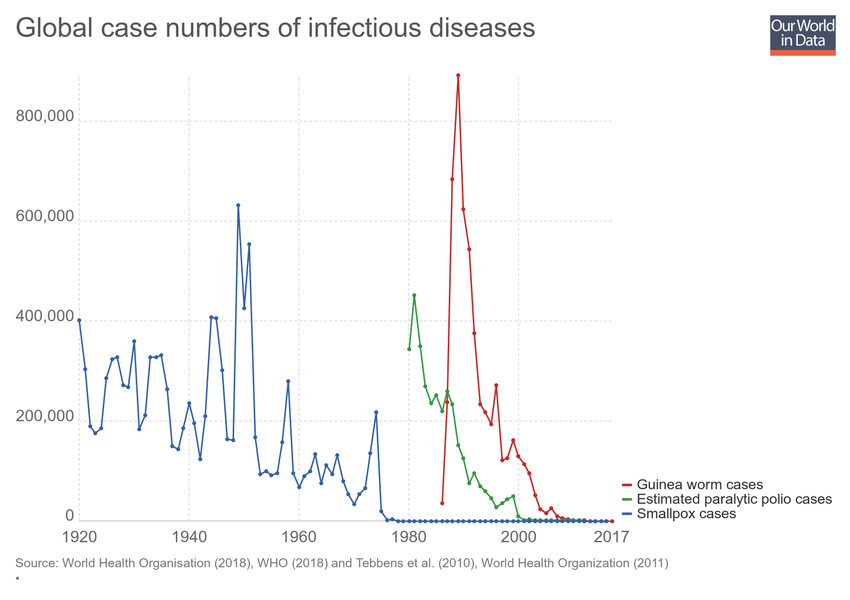
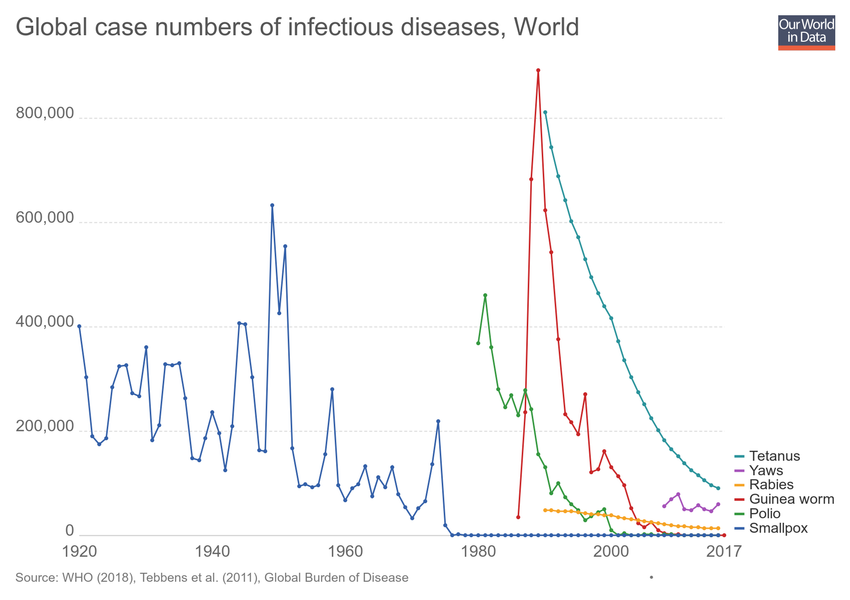
Updating chart global-case-numbers-of-infectious-diseases

diff --git a/grapher/global-case-numbers-of-infectious-diseases.html b/grapher/global-case-numbers-of-infectious-diseases.html
@@ -1,4 +1,4 @@
-<!doctype html><html><head><meta name="viewport" content="width=device-width, initial-scale=1" /><title>Global case numbers of infectious diseases - Our World in Data</title><meta name="description" content="An interactive visualization from Our World in Data." /><link rel="canonical" href="https://ourworldindata.org/grapher/global-case-numbers-of-infectious-diseases" /><meta property="fb:app_id" content="1149943818390250" /><meta property="og:url" content="https://ourworldindata.org/grapher/global-case-numbers-of-infectious-diseases" /><meta property="og:title" content="Global case numbers of infectious diseases" /><meta property="og:description" content="An interactive visualization from Our World in Data." /><meta property="og:image" content="https://ourworldindata.org/grapher/exports/global-case-numbers-of-infectious-diseases.png?v=6" /><meta property="og:image:width" content="850" /><meta property="og:image:height" content="600" /><meta property="og:site_name" content="Our World in Data" /><meta name="twitter:card" content="summary_large_image" /><meta name="twitter:site" content="@OurWorldInData" /><meta name="twitter:creator" content="@OurWorldInData" /><meta name="twitter:title" content="Global case numbers of infectious diseases" /><meta name="twitter:description" content="An interactive visualization from Our World in Data." /><meta name="twitter:image" content="https://ourworldindata.org/grapher/exports/global-case-numbers-of-infectious-diseases.png?v=6" /><style>
+<!doctype html><html><head><meta name="viewport" content="width=device-width, initial-scale=1" /><title>Global case numbers of infectious diseases - Our World in Data</title><meta name="description" content="An interactive visualization from Our World in Data." /><link rel="canonical" href="https://ourworldindata.org/grapher/global-case-numbers-of-infectious-diseases" /><meta property="fb:app_id" content="1149943818390250" /><meta property="og:url" content="https://ourworldindata.org/grapher/global-case-numbers-of-infectious-diseases" /><meta property="og:title" content="Global case numbers of infectious diseases" /><meta property="og:description" content="An interactive visualization from Our World in Data." /><meta property="og:image" content="https://ourworldindata.org/grapher/exports/global-case-numbers-of-infectious-diseases.png?v=7" /><meta property="og:image:width" content="850" /><meta property="og:image:height" content="600" /><meta property="og:site_name" content="Our World in Data" /><meta name="twitter:card" content="summary_large_image" /><meta name="twitter:site" content="@OurWorldInData" /><meta name="twitter:creator" content="@OurWorldInData" /><meta name="twitter:title" content="Global case numbers of infectious diseases" /><meta name="twitter:description" content="An interactive visualization from Our World in Data." /><meta name="twitter:image" content="https://ourworldindata.org/grapher/exports/global-case-numbers-of-infectious-diseases.png?v=7" /><style>
         html, body {
             height: 100%;
             margin: 0;
@@ -20,8 +20,8 @@
         }
     </style><noscript><style>
                     figure { display: none !important; }
-                </style></noscript><link rel="stylesheet" href="https://ourworldindata.org/grapher/assets/commons.bundle.019a92548339820130b6.css" /><link rel="preload" href="/grapher/data/variables/67406+66553+65367+81557+80972+80952+77424+77504+85935.json?v=6" as="fetch" crossorigin /></head><body class="singleChart"><figure data-grapher-src="/grapher/global-case-numbers-of-infectious-diseases"></figure><noscript id="fallback"><img src="/grapher/exports/global-case-numbers-of-infectious-diseases.svg" /><p>Interactive visualization requires JavaScript</p></noscript><script src="https://cdn.polyfill.io/v2/polyfill.min.js?features=es6,fetch"></script><script src="https://ourworldindata.org/grapher/assets/commons.bundle.019a92548339820130b6.js"></script><script src="https://ourworldindata.org/grapher/assets/charts.bundle.dcf65b68eddaba4c6a58.js"></script><script>
-        var jsonConfig = {"id":2065,"map":{"projection":"World","colorSchemeLabels":[],"colorSchemeValues":[],"defaultProjection":"World","colorSchemeMinValue":0,"customNumericColors":[],"customCategoryColors":{},"customCategoryLabels":{},"customHiddenCategories":{}},"tab":"chart","slug":"global-case-numbers-of-infectious-diseases","type":"LineChart","title":"Global case numbers of infectious diseases","xAxis":{"scaleType":"linear"},"yAxis":{"min":0,"scaleType":"linear"},"version":6,"hasMapTab":false,"stackMode":"absolute","dimensions":[{"display":{"name":"Guinea worm","unit":"cases","numDecimalPlaces":0},"property":"y","variableId":67406},{"display":{"name":"Polio","unit":"cases","numDecimalPlaces":0},"property":"y","variableId":66553},{"display":{"name":"Smallpox","unit":"cases","numDecimalPlaces":0},"property":"y","variableId":65367},{"display":{"name":"Rabies","unit":"cases","numDecimalPlaces":0},"property":"y","variableId":81557},{"display":{"name":"HIV/AIDS","unit":"cases","numDecimalPlaces":0},"property":"y","variableId":80972},{"display":{"name":"Tuberculosis","unit":"cases","numDecimalPlaces":0},"property":"y","variableId":80952},{"display":{"name":"Tetanus","unit":"cases","numDecimalPlaces":0},"property":"y","variableId":77424},{"display":{"name":"Malaria","unit":"cases","numDecimalPlaces":0},"property":"y","variableId":77504},{"display":{"name":"Yaws","unit":"cases","numDecimalPlaces":0},"property":"y","variableId":85935}],"entityType":"disease","sourceDesc":"WHO (2018), Tebbens et al. (2011), Global Burden of Disease","hasChartTab":true,"isPublished":true,"selectedData":[{"index":0,"entityId":355},{"index":1,"entityId":355},{"index":2,"entityId":355},{"index":3,"entityId":355},{"index":6,"entityId":355},{"index":8,"entityId":355}],"addCountryMode":"add-country","hideTitleAnnotation":true};
+                </style></noscript><link rel="stylesheet" href="https://ourworldindata.org/grapher/assets/commons.bundle.019a92548339820130b6.css" /><link rel="preload" href="/grapher/data/variables/67406+66553+65367+81557+80972+80952+77424+77504+85935.json?v=7" as="fetch" crossorigin /></head><body class="singleChart"><figure data-grapher-src="/grapher/global-case-numbers-of-infectious-diseases"></figure><noscript id="fallback"><img src="/grapher/exports/global-case-numbers-of-infectious-diseases.svg" /><p>Interactive visualization requires JavaScript</p></noscript><script src="https://cdn.polyfill.io/v2/polyfill.min.js?features=es6,fetch"></script><script src="https://ourworldindata.org/grapher/assets/commons.bundle.019a92548339820130b6.js"></script><script src="https://ourworldindata.org/grapher/assets/charts.bundle.dcf65b68eddaba4c6a58.js"></script><script>
+        var jsonConfig = {"id":2065,"map":{"projection":"World","colorSchemeLabels":[],"colorSchemeValues":[],"colorSchemeMinValue":0,"customNumericColors":[],"customCategoryColors":{},"customCategoryLabels":{},"customHiddenCategories":{}},"tab":"chart","slug":"global-case-numbers-of-infectious-diseases","type":"LineChart","title":"Global case numbers of infectious diseases","xAxis":{"scaleType":"linear"},"yAxis":{"min":0,"scaleType":"linear"},"version":7,"hasMapTab":false,"stackMode":"absolute","dimensions":[{"display":{"name":"Guinea worm","unit":"cases","numDecimalPlaces":0},"property":"y","variableId":67406},{"display":{"name":"Polio","unit":"cases","numDecimalPlaces":0},"property":"y","variableId":66553},{"display":{"name":"Smallpox","unit":"cases","numDecimalPlaces":0},"property":"y","variableId":65367},{"display":{"name":"Rabies","unit":"cases","numDecimalPlaces":0},"property":"y","variableId":81557},{"display":{"name":"HIV/AIDS","unit":"cases","numDecimalPlaces":0},"property":"y","variableId":80972},{"display":{"name":"Tuberculosis","unit":"cases","numDecimalPlaces":0},"property":"y","variableId":80952},{"display":{"name":"Tetanus","unit":"cases","numDecimalPlaces":0},"property":"y","variableId":77424},{"display":{"name":"Malaria","unit":"cases","numDecimalPlaces":0},"property":"y","variableId":77504},{"display":{"name":"Yaws","unit":"cases","numDecimalPlaces":0},"property":"y","variableId":85935}],"entityType":"","sourceDesc":"WHO (2018), Tebbens et al. (2011), Global Burden of Disease","hasChartTab":true,"isPublished":true,"selectedData":[{"index":0,"entityId":355},{"index":1,"entityId":355},{"index":2,"entityId":355},{"index":3,"entityId":355},{"index":6,"entityId":355},{"index":8,"entityId":355}],"addCountryMode":"change-country"};
         var figure = document.getElementsByTagName("figure")[0];
         try {
             window.App = {};
